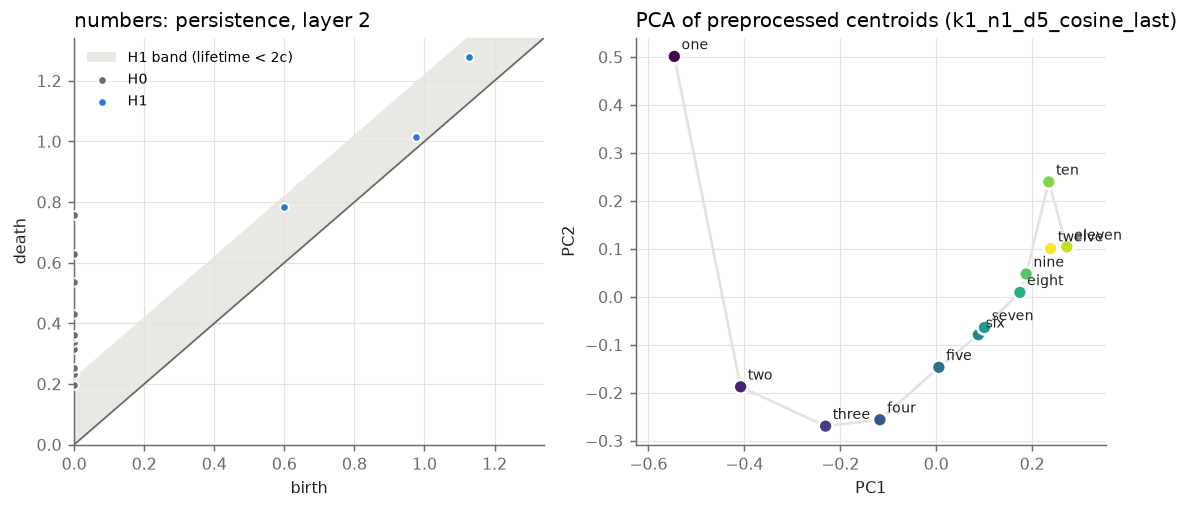
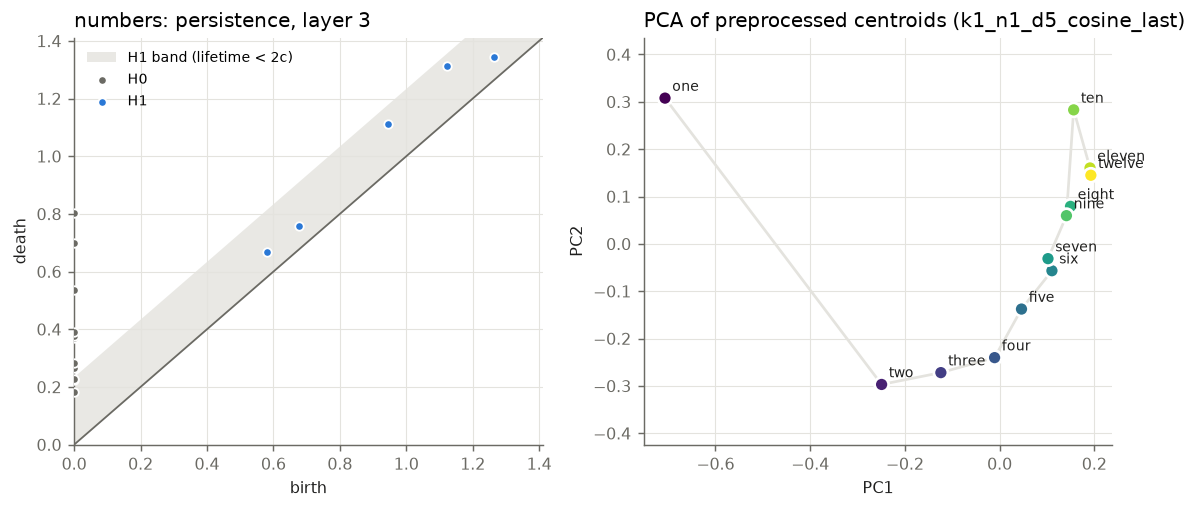
report_phase1: shape_pass, line-control measure label, skip empty families

diff --git a/scripts/report_phase1.py b/scripts/report_phase1.py
@@ -35,6 +35,10 @@ from topodur.geometry import Prep  # noqa: E402
 DEFAULT_LAYERS = list(range(12, 17))
 
 
+def passcol(df: pd.DataFrame) -> str:
+    return "shape_pass" if "shape_pass" in df else "circle_pass"
+
+
 def best_row(d: pd.DataFrame) -> pd.Series:
     return d.sort_values(["topology_score", "h1_ratio"], ascending=False).iloc[0]
 
@@ -51,10 +55,11 @@ def profiles(df, prim, fams, path, n_layers):
             s = d[d.source == src].sort_values("layer")
             if len(s):
                 ax.plot(s.layer, s.topology_score, color=c, ls=ls, lw=1.6, label=src)
-                cp = s[s.circle_pass]
+                cp = s[s[passcol(s)]]
                 ax.scatter(cp.layer, cp.topology_score, s=14, color=c, edgecolor="white", lw=0.8, zorder=3)
         fam = load_family(f)
-        meas = "h1_ratio" if fam.n_items > 30 else "order x closed"
+        meas = "h1_ratio" if fam.n_items > 30 else ("line order x open" if fam.topology == "interval"
+                                                      else "order x closed")
         ax.set_title(f"{f} ({fam.topology[:5]}, {meas})", loc="left", fontsize=7.5, color=rep.INK)
         ax.tick_params(labelsize=7)
         if meas != "h1_ratio":
@@ -62,8 +67,8 @@ def profiles(df, prim, fams, path, n_layers):
     for ax in list(axes.flat)[n:]:
         ax.axis("off")
     axes.flat[0].legend(frameon=False, fontsize=7)
-    fig.text(0.01, -0.01, "Primary preprocessing. Shaded: default layers 12-16. Dots: circle_pass (significant H1, "
-             "exact cyclic order p<0.05, closure < 2). x: layer.", color=rep.MUTED, fontsize=8)
+    fig.text(0.01, -0.01, "Primary preprocessing. Shaded: default layers 12-16. Dots: shape_pass (circles: significant H1, "
+             "exact cyclic order p<0.05, closure < 2; line controls: linear order p<0.05, closure >= 2). x: layer.", color=rep.MUTED, fontsize=8)
     fig.tight_layout()
     fig.savefig(path, bbox_inches="tight")
     plt.close(fig)
@@ -89,19 +94,25 @@ def main() -> int:
 
     lines = [f"# {exp} / {a.unit}", "",
              f"Primary preprocessing {p}; template contexts unless stated. Topology score = order_score x "
-             "1[closure < 2] for families of 30 items or fewer, h1_ratio above (cities). circle_pass = significant "
-             "H1 + exact cyclic order (p < 0.05) + closure < 2. Robustness = share of the 36 preprocessing "
-             "settings with circle_pass at the best layer (< 50% = fragile).", "",
+             "1[closure < 2] for circle families of 30 items or fewer; line_order_score x 1[closure >= 2] for "
+             "line controls (an ordered arc that stays open); h1_ratio above 30 items (cities). shape_pass = "
+             "significant H1 + exact cyclic order (p < 0.05) + closure < 2 for circles; linear order p < 0.05 + "
+             "closure >= 2 for line controls. Robustness = share of the 36 preprocessing settings with "
+             "shape_pass at the best layer (< 50% = fragile).", "",
              "| family | topology | origin | items | best layer | score | closure | n_sig_h1 | gauss p | "
-             "circle_pass layers | robustness | score @12-16 | pile items | pile best layer | pile score |",
+             "shape_pass layers | robustness | score @12-16 | pile items | pile best layer | pile score |",
              "|---|---|---|---|---|---|---|---|---|---|---|---|---|---|---|"]
     summary = []
     for f in fams:
         fam = load_family(f)
         d = df[prim & (df.family == f) & (df.source == "template")]
+        if d.empty:
+            lines.append(f"| {f} | (no primary-preprocessing template rows) |")
+            continue
         b = best_row(d)
-        rob = df[(df.family == f) & (df.source == "template") & (df.layer == b.layer)].circle_pass.mean()
-        layers = sorted(d[d.circle_pass].layer)
+        pc = passcol(df)
+        rob = df[(df.family == f) & (df.source == "template") & (df.layer == b.layer)][pc].mean()
+        layers = sorted(d[d[pc]].layer)
         lay = _ranges(layers) or "none"
         dflt = d[d.layer.isin(DEFAULT_LAYERS)].topology_score.mean()
         dp = df[prim & (df.family == f) & (df.source == "pile")]

diff --git a/reports/test_cpu_phase1/70m_s0_step143000/summary.md b/reports/test_cpu_phase1/70m_s0_step143000/summary.md
@@ -1,21 +1,21 @@
 # test_cpu_phase1 / 70m_s0_step143000
 
-Primary preprocessing {'k_remove': 1, 'd_proj': 5, 'metric': 'cosine', 'variant': 'last'}; template contexts unless stated. Topology score = order_score x 1[closure < 2] for families of 30 items or fewer, h1_ratio above (cities). circle_pass = significant H1 + exact cyclic order (p < 0.05) + closure < 2. Robustness = share of the 36 preprocessing settings with circle_pass at the best layer (< 50% = fragile).
+Primary preprocessing {'k_remove': 1, 'd_proj': 5, 'metric': 'cosine', 'variant': 'last'}; template contexts unless stated. Topology score = order_score x 1[closure < 2] for circle families of 30 items or fewer; line_order_score x 1[closure >= 2] for line controls (an ordered arc that stays open); h1_ratio above 30 items (cities). shape_pass = significant H1 + exact cyclic order (p < 0.05) + closure < 2 for circles; linear order p < 0.05 + closure >= 2 for line controls. Robustness = share of the 36 preprocessing settings with shape_pass at the best layer (< 50% = fragile).
 
-| family | topology | origin | items | best layer | score | closure | n_sig_h1 | gauss p | circle_pass layers | robustness | score @12-16 | pile items | pile best layer | pile score |
+| family | topology | origin | items | best layer | score | closure | n_sig_h1 | gauss p | shape_pass layers | robustness | score @12-16 | pile items | pile best layer | pile score |
 |---|---|---|---|---|---|---|---|---|---|---|---|---|---|---|
 | months | circle | explicit | 12 | 4 | 0.49 | 1.10 | 2 | 0.19 | none | 0% (fragile) | nan | 12 | 4 | 0.80 |
 | clock_hours | circle | explicit | 12 | 2 | 0.55 | 1.97 | 0 | 0.43 | none | 0% (fragile) | nan | - | - | - |
 | keys | torus | emergent | 24 | 2 | 0.21 | 0.54 | 7 | 0.10 | none | 0% (fragile) | nan | - | - | - |
 | cities_longitude | circle | implicit | 300 | 3 | 3.91 | 1.08 | 9 | 0.09 | none | 0% (fragile) | nan | 54 | 5 | 2.67 |
-| numbers | interval | control | 12 | 2 | 0.00 | 2.42 | 0 | 0.67 | none | 0% (fragile) | nan | 12 | 2 | 0.15 |
+| numbers | interval | control | 12 | 3 | 0.87 | 2.13 | 0 | 0.81 | 0-5 | 100% | nan | 12 | 1 | 0.73 |
 
 ## Circles vs line controls (families of 30 items or fewer, template contexts)
 
 | group | n | mean score at best layer | mean score at layers 12-16 |
 |---|---|---|---|
 | circle/torus | 3 | 0.42 | nan |
-| line controls | 1 | 0.00 | nan |
+| line controls | 1 | 0.87 | nan |
 | unknown (political) | 0 | nan | nan |
 
 Cities (h1_ratio): cities_longitude 3.91 (best) / nan (12-16)
